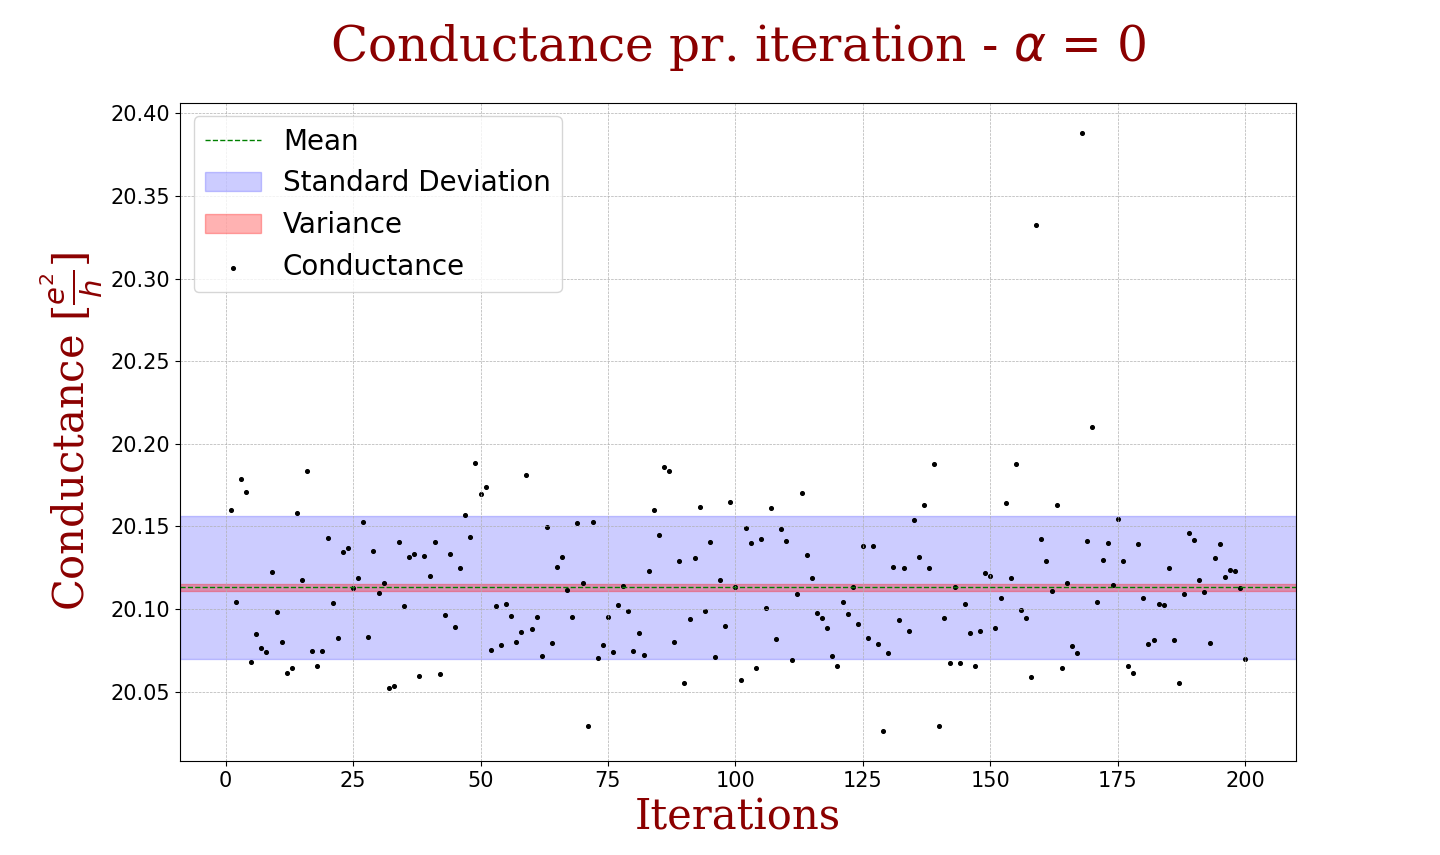
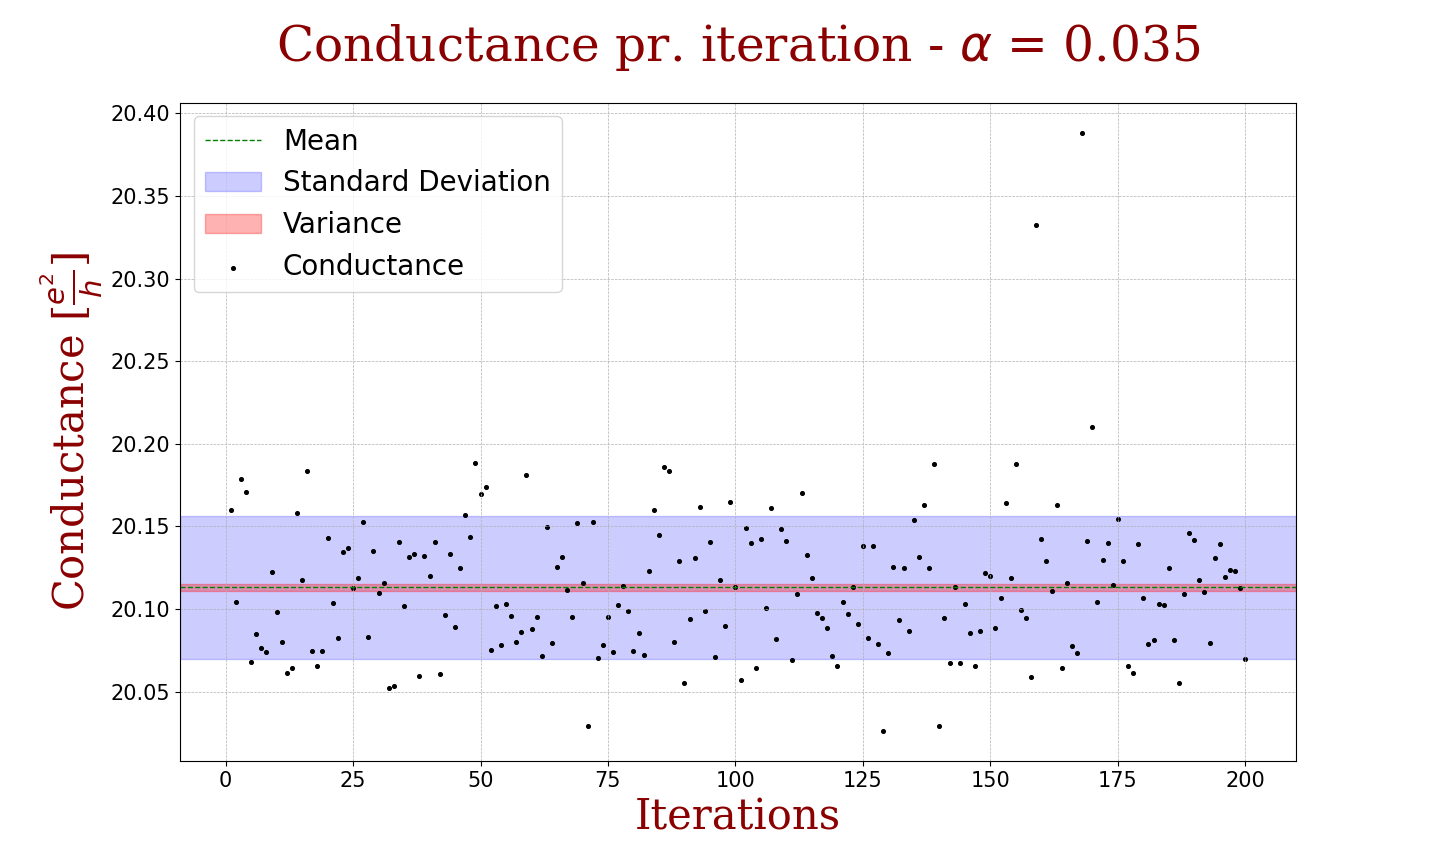
.

Changed region(s): [[0.1875, 0.0304, 0.8438, 0.0912]]

diff --git a/src/main.py b/src/main.py
@@ -618,7 +618,7 @@ class Resources:
             fontdict=font
         )
         plt.title(
-            f'Conductance pr. iteration - $\\alpha$ = 0', 
+            f'Conductance pr. iteration - $\\alpha$ = 0.035', 
             fontsize=35, 
             fontdict=font, 
             y=1.05
@@ -805,7 +805,7 @@ if __name__ == "__main__":
     #    iterations = 200, 
     #    name = "200_alpha_0_035"
     #)
-    
+    Resources.plot_conductances(Resources.get_saved_plot("200_alpha_0_035"), normalized=False)
     # Initialize with alpha = 0.035
     #alpha_0 = Task2(alpha = 0)
     
@@ -814,6 +814,6 @@ if __name__ == "__main__":
     #    iterations = 3, 
     #    name = "200_alpha_0"
     #)
-    Resources.plot_conductances(Resources.get_saved_plot("200_alpha_0_035"), normalized=False)
+
     
 
